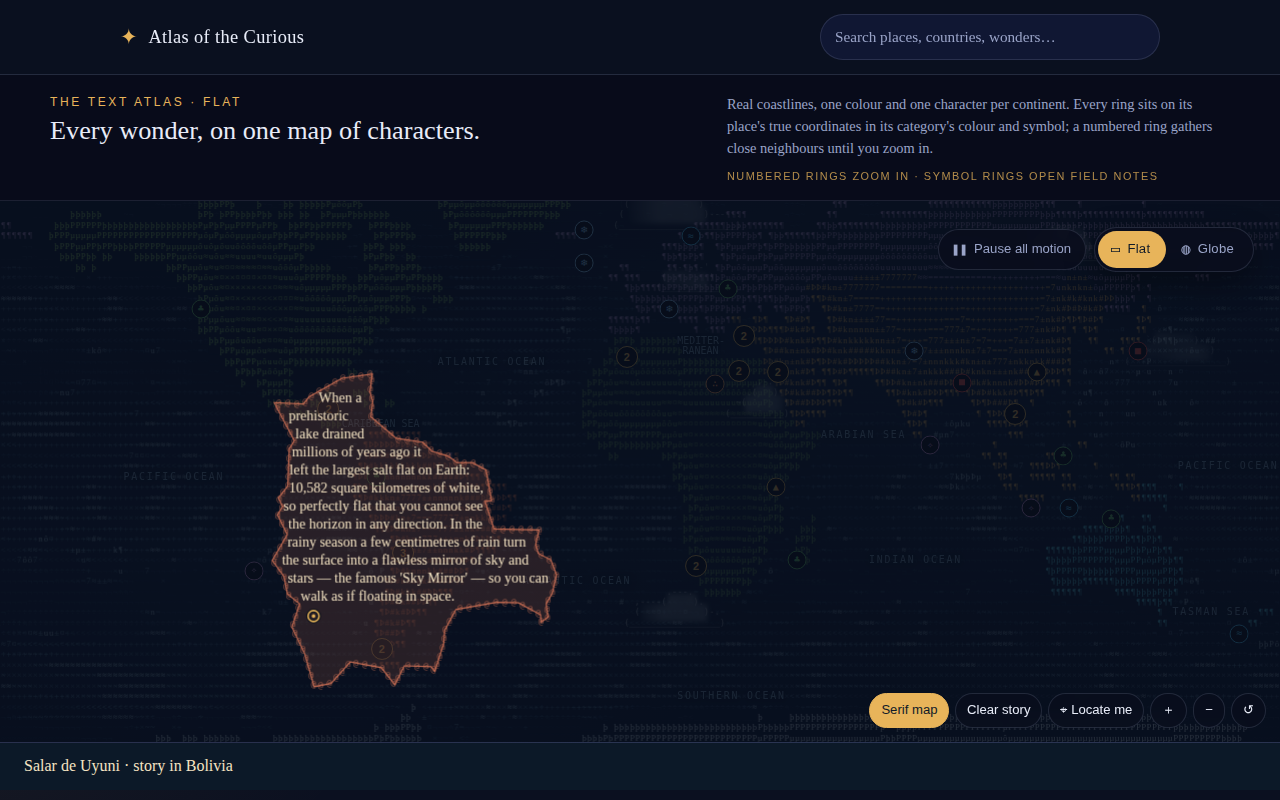
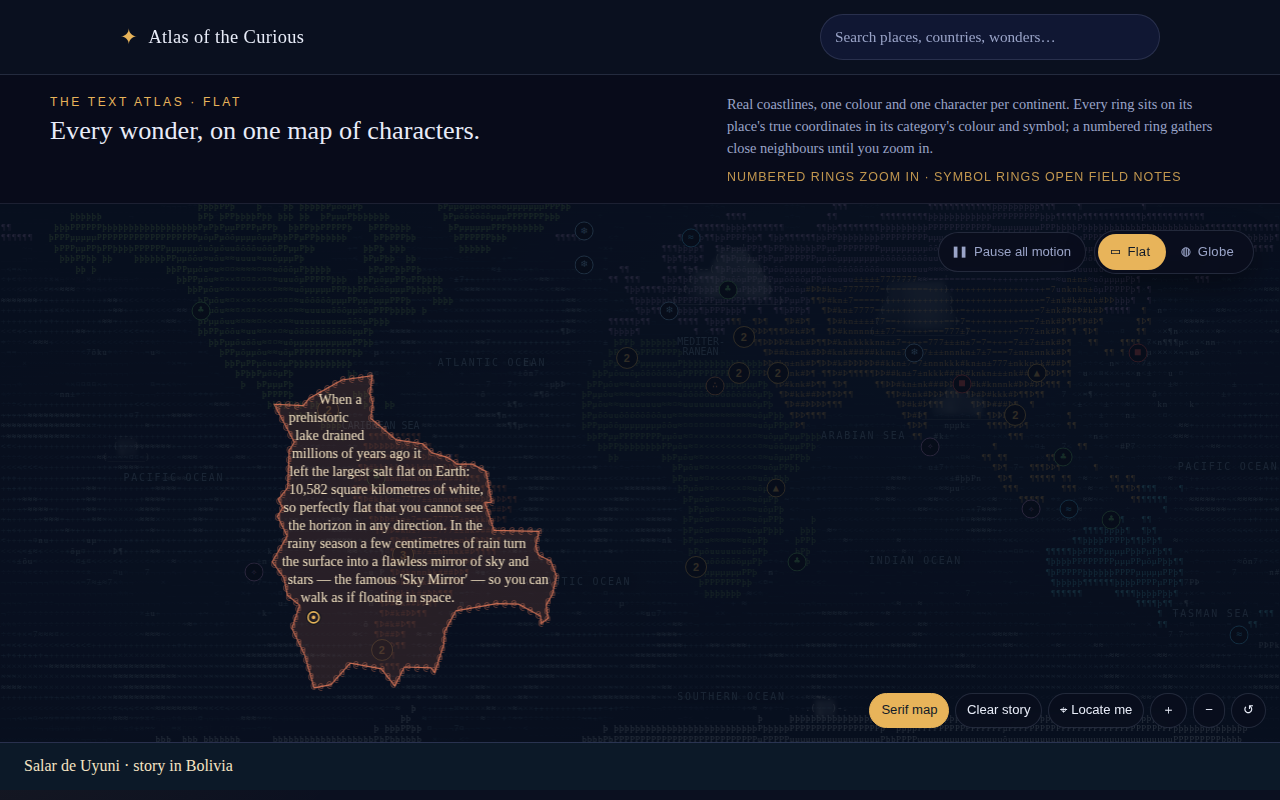
Address review round 13: reach search results, field contrast, label sizes
- The filter readout offers List them (focuses the filtered cards) beside
  Clear; on phones it keeps the count and both actions in one row.
- When no match is in view, the globe turns to the match nearest the
  current view and says so.
- The notebook field has a real edge and a full-contrast placeholder.
- Interaction hints and preview category labels are set larger with
  less tracking.

diff --git a/earthxt/app.js b/earthxt/app.js
@@ -184,10 +184,10 @@ function frame(time) {
   }
   frameId = requestAnimationFrame(frame);
 }
-function nearestPlace(latitude, longitude) {
+function nearestPlace(latitude, longitude, among = places) {
   const rad = Math.PI / 180;
-  let best = places[0], bestCos = -2;
-  for (const place of places) {
+  let best = among[0], bestCos = -2;
+  for (const place of among) {
     const cos = Math.sin(latitude * rad) * Math.sin(place.latitude * rad)
       + Math.cos(latitude * rad) * Math.cos(place.latitude * rad) * Math.cos((place.longitude - longitude) * rad);
     if (cos > bestCos) { bestCos = cos; best = place; }
@@ -401,7 +401,24 @@ async function main({ embedded = false } = {}) {
     window.addEventListener('atlas:motion', event => holdMotion(Boolean(event.detail)));
     if (still() && !reducedMotion.matches) holdMotion(true, true);
     placeLayer.setFilter(window.ATLAS_VISIBLE || null);
-    window.addEventListener('atlas:visible', event => { placeLayer.setFilter(event.detail); dirty = true; });
+    // A search whose matches all lie on the far side would leave the globe
+    // looking empty: turn to the match nearest the current view instead.
+    const turnToMatches = () => {
+      const ids = window.ATLAS_VISIBLE;
+      if (!active || !ids || !ids.size || ids.size === places.length || state.source !== 'earth') return;
+      if (placeLayer.markers.some(marker => marker.visible && ids.has(marker.id))) return;
+      const target = nearestPlace(state.latitude, state.longitude, places.filter(place => ids.has(place.id)));
+      setRotation(false);
+      state.latitude = target.latitude;
+      state.longitude = target.longitude;
+      setText('live-status', `Turned the globe to ${target.name}, the nearest match.`);
+      dirty = true;
+    };
+    window.addEventListener('atlas:visible', event => {
+      placeLayer.setFilter(event.detail); dirty = true;
+      requestAnimationFrame(turnToMatches);
+    });
+    window.addEventListener('atlas:view', event => { if (event.detail === 'globe') requestAnimationFrame(turnToMatches); });
   }
   setupControls();
   const resize = (width, height) => {

diff --git a/index.html b/index.html
@@ -80,7 +80,7 @@
             <button class="view-btn" type="button" data-view-target="globe" aria-pressed="false" title="Globe"><span class="view-glyph" aria-hidden="true">◍</span><span class="view-label">Globe</span></button>
           </div>
           </div>
-          <p class="atlas-filter" id="atlas-filter" hidden><span class="atlas-filter-text" id="atlas-filter-text" role="status"></span><button class="atlas-filter-clear" id="atlas-filter-clear" type="button">Clear</button></p>
+          <p class="atlas-filter" id="atlas-filter" hidden><span class="atlas-filter-text" id="atlas-filter-text" role="status"></span><button class="atlas-filter-clear atlas-filter-view" id="atlas-filter-view" type="button">List<span class="long-label"> them</span></button><button class="atlas-filter-clear" id="atlas-filter-clear" type="button">Clear</button></p>
           <p class="gesture-hint" id="gesture-hint" role="status" hidden></p>
           <p class="visually-hidden" id="flat-instructions">Tab to a ring to preview it and press Enter to open it. Hold <span class="mod-key-name">Control</span> and scroll, or press plus and minus, to zoom; arrow keys pan a zoomed map; 0 resets.</p>
           <!-- map stage injected here by js/map.js -->
@@ -174,7 +174,7 @@
       </label>
     </section>
 
-    <p id="results-status" class="results-status" role="status" aria-live="polite"></p>
+    <p id="results-status" class="results-status" role="status" aria-live="polite" tabindex="-1"></p>
 
     <section id="grid" class="grid" aria-label="Places"></section>
 

diff --git a/js/views.js b/js/views.js
@@ -103,11 +103,25 @@ if (section && globeView) {
     if (!filter || !filterText) return;
     filter.hidden = !active;
     if (!active) { filterText.textContent = ""; return; }
+    // The count always shows; the scope can give way on a narrow toolbar.
     const scope = [query && `“${query}”`, category].filter(Boolean).join(" in ");
-    filterText.textContent = `${shown} of ${total} places${scope ? ` match ${scope}` : ""}`;
+    const count = document.createElement("span");
+    count.className = "filter-count";
+    count.textContent = `${shown} of ${total}`;
+    const rest = document.createElement("span");
+    rest.className = "filter-scope";
+    rest.textContent = ` places${scope ? ` match ${scope}` : ""}`;
+    filterText.replaceChildren(count, rest);
   };
   window.addEventListener("atlas:filter", (event) => showFilter(event.detail));
   showFilter(window.ATLAS_FILTER_STATE);
+  // The matches as a list: scroll to the filtered cards and focus the first.
+  document.getElementById("atlas-filter-view")?.addEventListener("click", () => {
+    const status = document.getElementById("results-status");
+    status?.scrollIntoView({ behavior: "smooth", block: "start" });
+    const first = document.querySelector("#grid .card:not(.is-leaving) .card-more");
+    (first || status)?.focus({ preventScroll: true });
+  });
   document.getElementById("atlas-filter-clear")?.addEventListener("click", () => window.ATLAS_CLEAR_FILTER?.());
 
   // Below the wide layout (phones and tablets) the switch, filter readout

diff --git a/css/style.css b/css/style.css
@@ -721,8 +721,8 @@ dialog::backdrop {
 .atlas-hint {
   margin: 0;
   font-family: Verdana, Geneva, sans-serif;
-  font-size: 0.68rem;
-  letter-spacing: 0.14em;
+  font-size: 0.78rem;
+  letter-spacing: 0.08em;
   text-transform: uppercase;
   color: var(--gold);
   opacity: 0.92;
@@ -1245,8 +1245,8 @@ dialog::backdrop {
 
 .map-card-cat {
   display: inline-block;
-  font-size: 0.62rem;
-  letter-spacing: 0.12em;
+  font-size: 0.72rem;
+  letter-spacing: 0.06em;
   text-transform: uppercase;
   border: 1px solid;
   border-radius: 999px;
@@ -1458,7 +1458,7 @@ dialog::backdrop {
   letter-spacing: var(--ls-notebook);
   color: var(--ink);
   background: rgba(255, 255, 255, 0.03);
-  border: 1px solid var(--line);
+  border: 1px solid rgba(154, 164, 200, 0.5); /* an editable field: a real edge */
   border-radius: 10px;
   padding: 10px 12px;
   white-space: pre-wrap;
@@ -1468,6 +1468,7 @@ dialog::backdrop {
   overflow-y: hidden;    /* …and never a scrollbar, which would eat the measure */
 }
 .notebook-input:focus-visible { outline: none; border-color: var(--gold); }
+.notebook-input::placeholder { color: var(--ink-dim); opacity: 1; }
 
 .notebook-actions { display: flex; flex-wrap: wrap; gap: 8px; margin-top: 8px; }
 

diff --git a/css/globe.css b/css/globe.css
@@ -303,6 +303,7 @@
   padding: 4px 12px;
   cursor: pointer;
 }
+.atlas-filter-view { background: transparent; }
 .atlas-filter-clear:hover, .atlas-filter-clear:focus-visible { background: var(--gold); color: #101a28; outline: none; }
 @media (pointer: coarse) { .atlas-filter-clear { min-height: 44px; padding: 4px 16px; } }
 .legend-item.is-empty { opacity: 0.45; }
@@ -413,6 +414,7 @@
   .view-btn { padding: 6px 12px 6px 10px; font-size: 0.72rem; }
   .motion-btn { padding: 8px 12px; }
   .motion-label { position: absolute; width: 1px; height: 1px; overflow: hidden; clip: rect(0 0 0 0); white-space: nowrap; }
+  .map-toolbar .filter-scope, .atlas-filter .long-label { display: none; }
   .map-controls .map-btn { padding: 6px 10px; }
   #map-locate { font-size: 0; }
   #map-locate::first-letter { font-size: 0.8rem; }

diff --git a/earthxt/place-layer.js b/earthxt/place-layer.js
@@ -123,7 +123,7 @@ export class PlaceLayer {
       let textWidth = fit.width;
       // The category pill is tracked uppercase in a padded, bordered box.
       const pill = `${categoryGlyph(place.category)} ${this.categoryLabel(place.category)}`.toUpperCase();
-      textWidth = Math.max(textWidth, this.metrics.tightWidthOfText('hover-loc', pill, maxWidth * 2) * 1.12 + 22);
+      textWidth = Math.max(textWidth, this.metrics.tightWidthOfText('hover-loc', pill, maxWidth * 2) * 1.2 + 24);
       for (const [role, text] of [['hover-name', place.name], ['native-name', native], ['hover-loc', place.country.toUpperCase()], ['hover-cta', cta]]) {
         if (text) textWidth = Math.max(textWidth, this.metrics.tightWidthOfText(role, text, maxWidth));
       }
